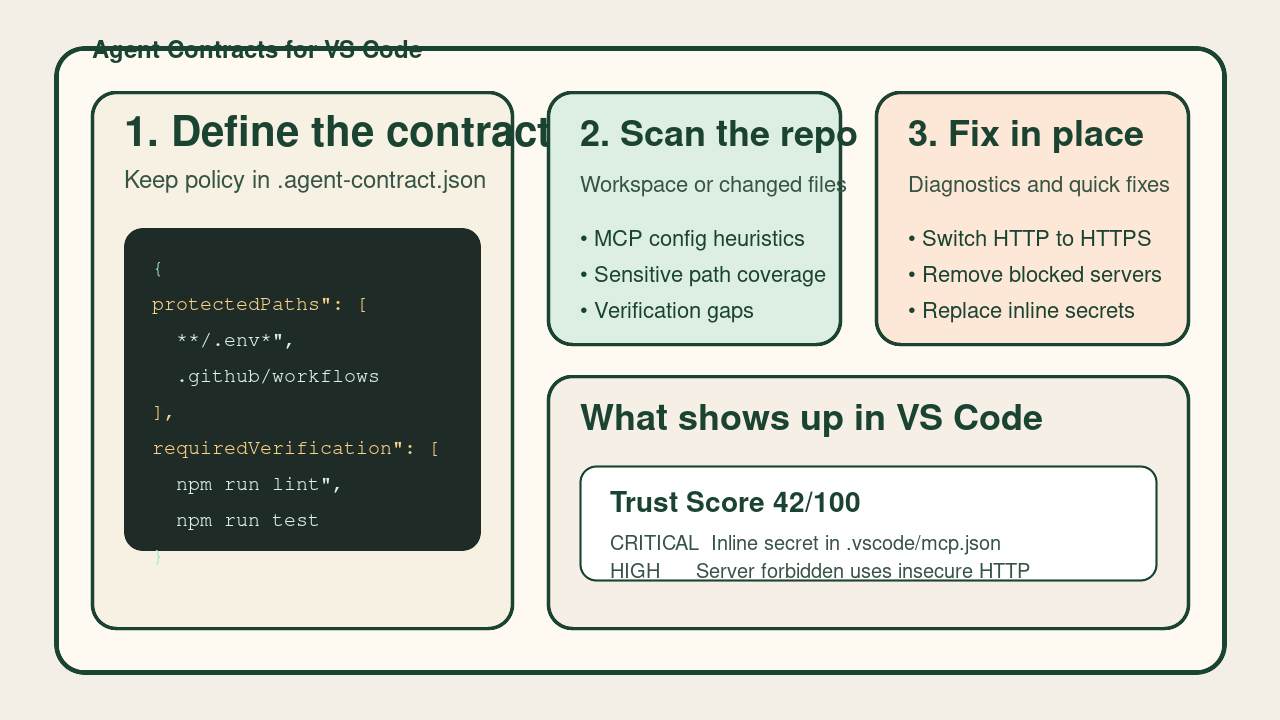
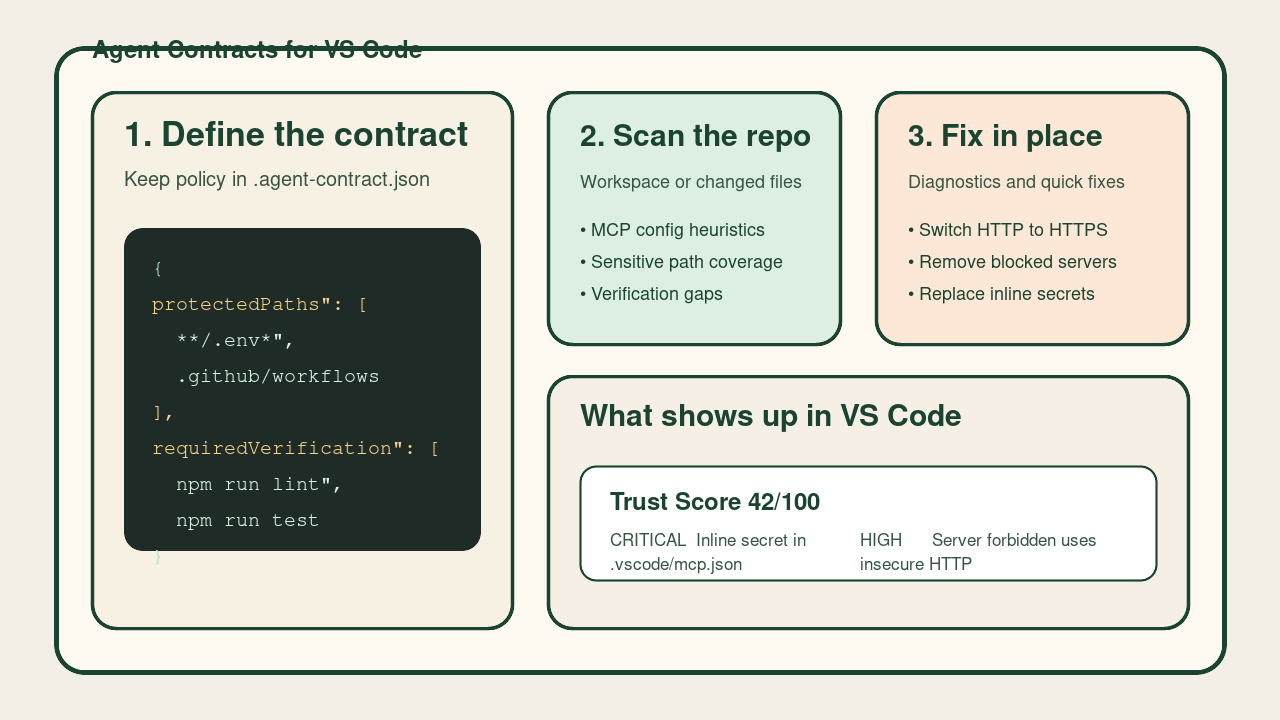
Tighten marketplace asset typography

diff --git a/CHANGELOG.md b/CHANGELOG.md
@@ -1,5 +1,10 @@
 # Changelog
 
+## 0.0.6
+
+- Reduced SVG typography and split long labels to prevent panel overlap
+- Regenerated marketplace PNG assets from the corrected SVG sources
+
 ## 0.0.5
 
 - Added extension-host integration tests with a fixture workspace
